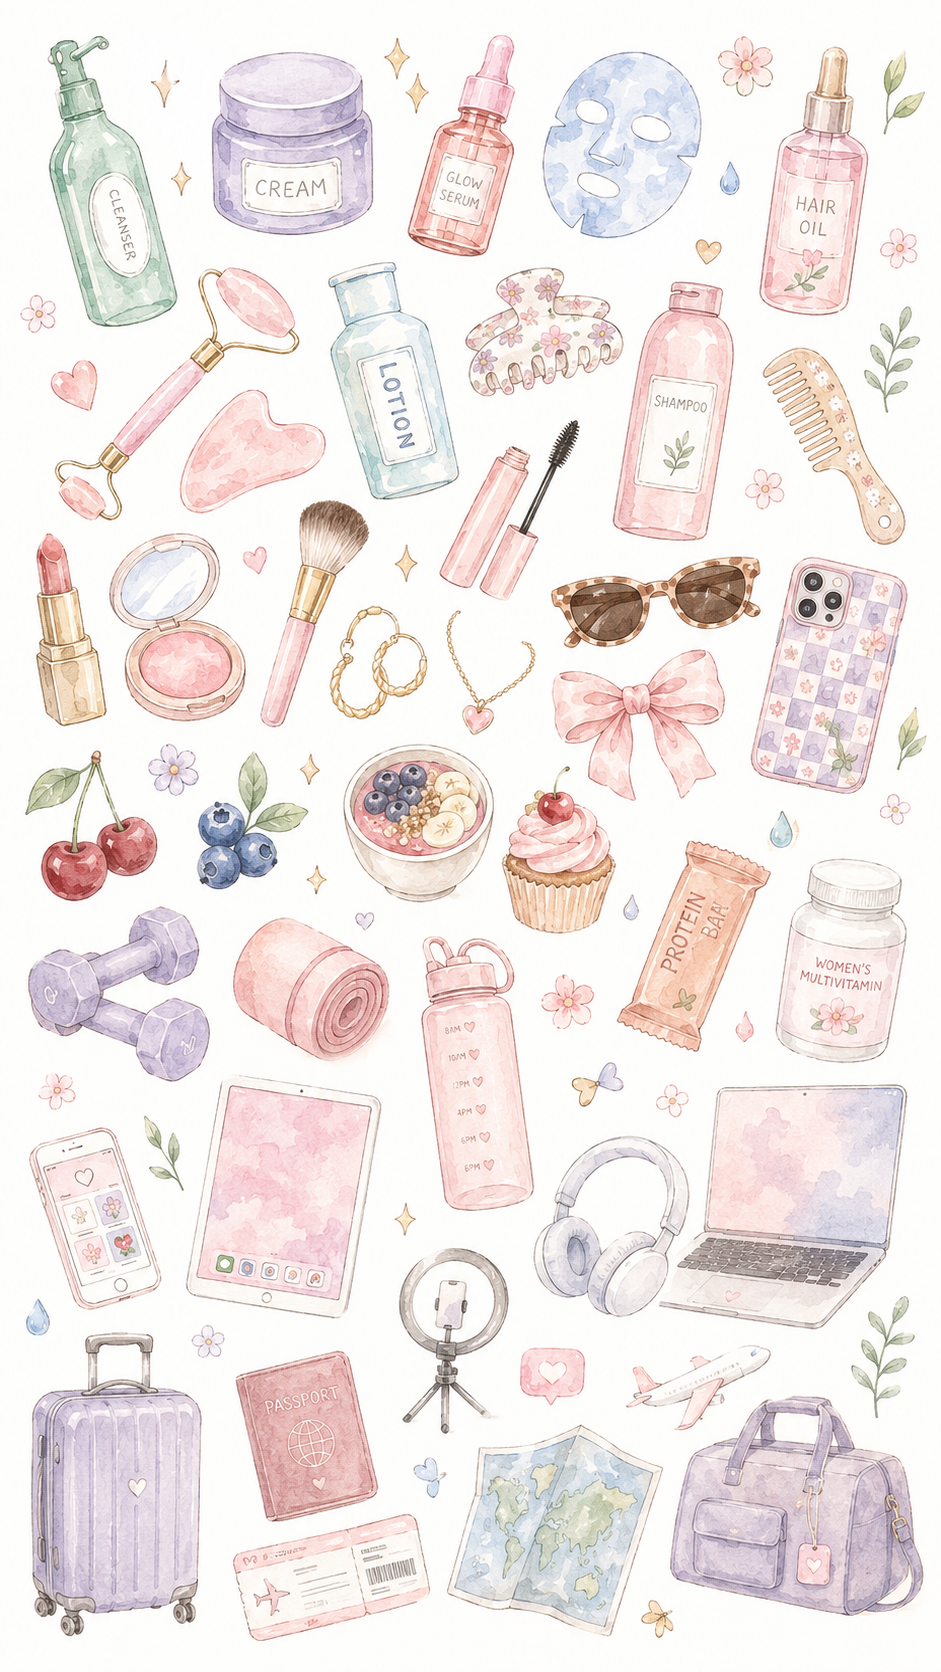
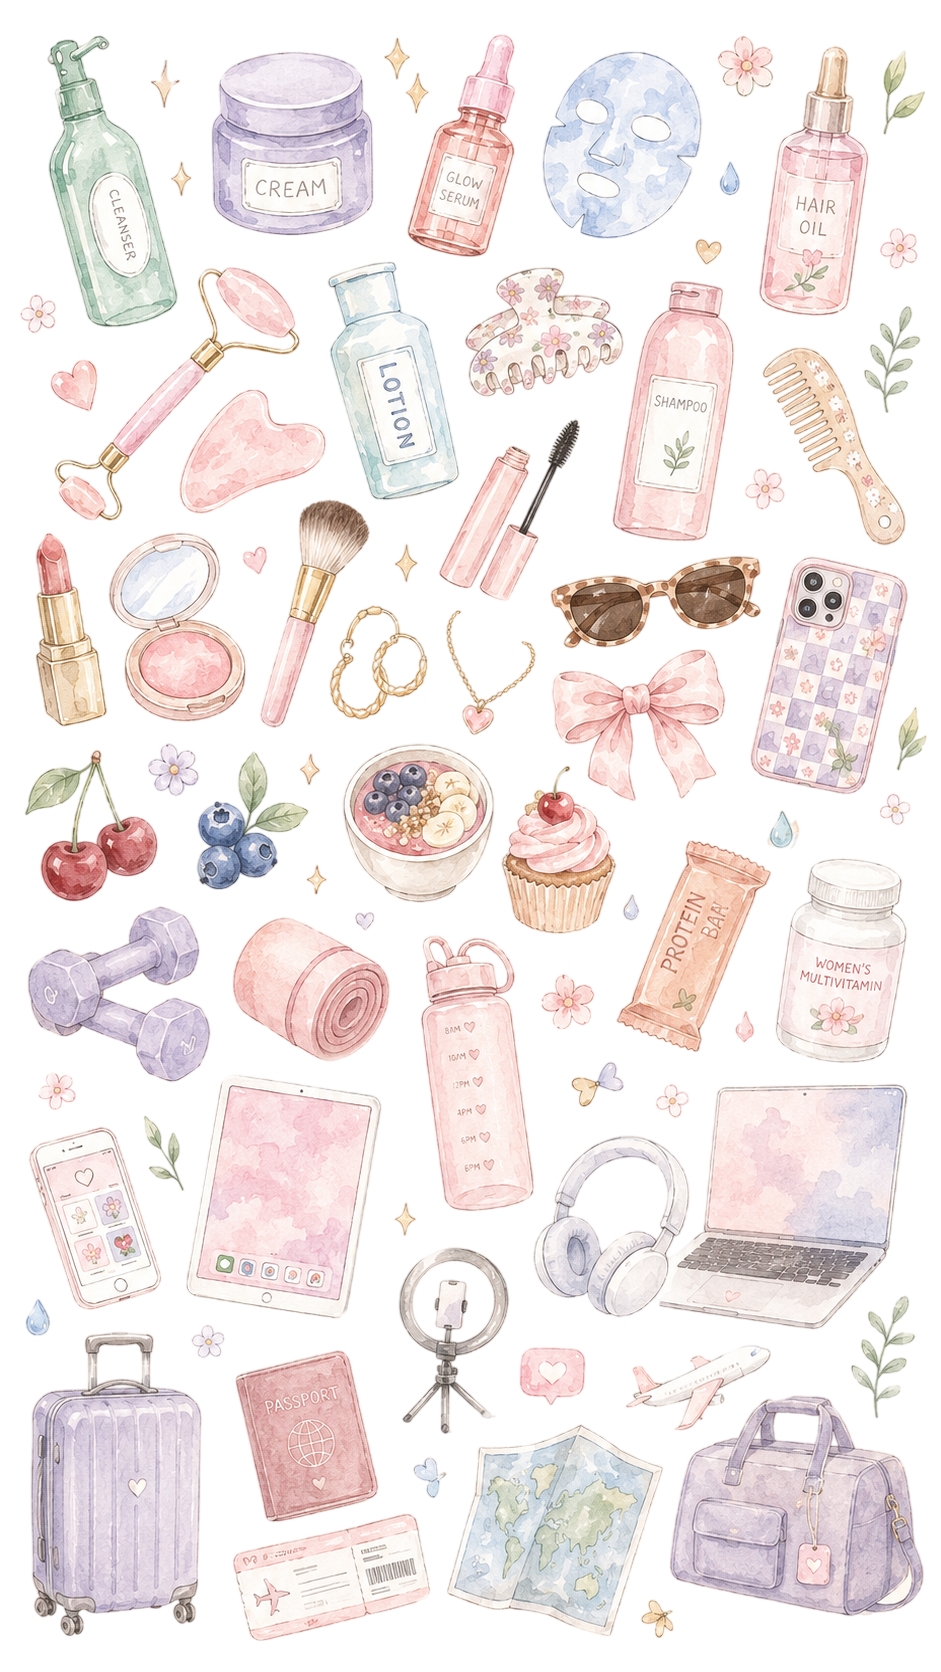
Prende stickers a largura do conteudo em vez da tela toda, preenchendo os espacos vazios reais

diff --git a/index.html b/index.html
@@ -70,7 +70,12 @@
      ========================================================== */
   .cerejas-flutuantes{
     position: absolute;
-    inset: 0;
+    top: 0;
+    bottom: 0;
+    left: 0;
+    right: 0;
+    max-width: var(--largura-max);
+    margin: 0 auto;
     pointer-events: none;
     z-index: -1;
   }
